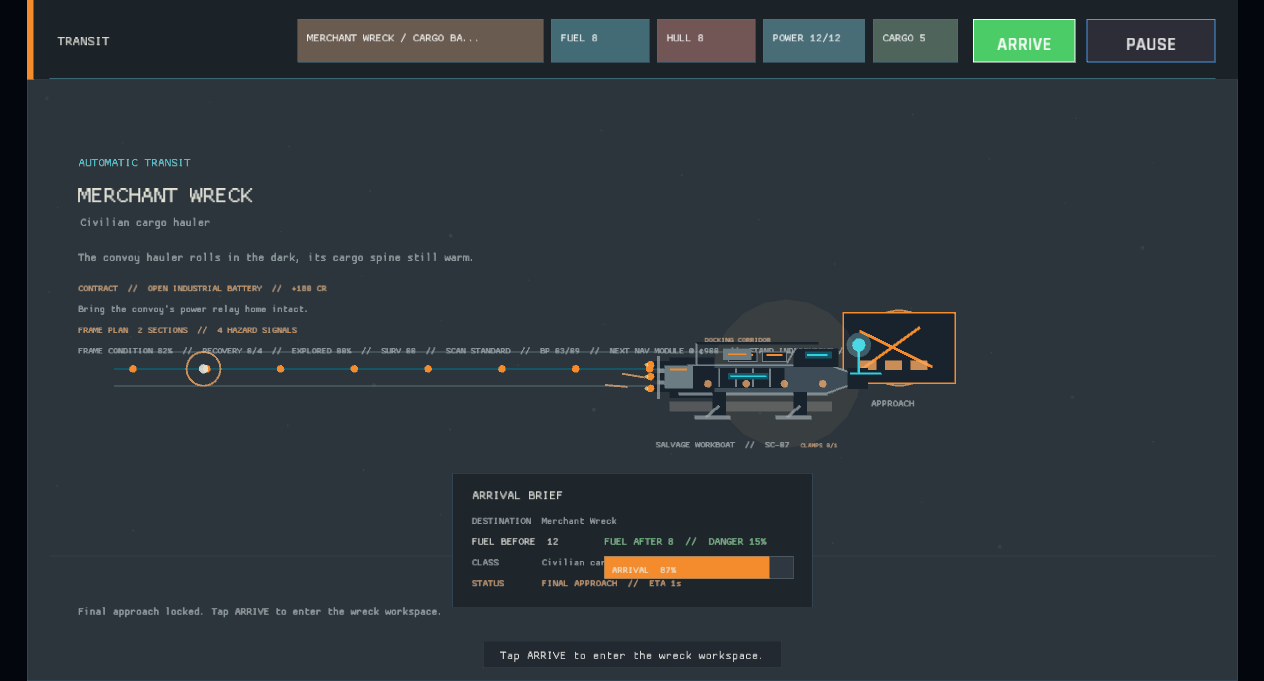
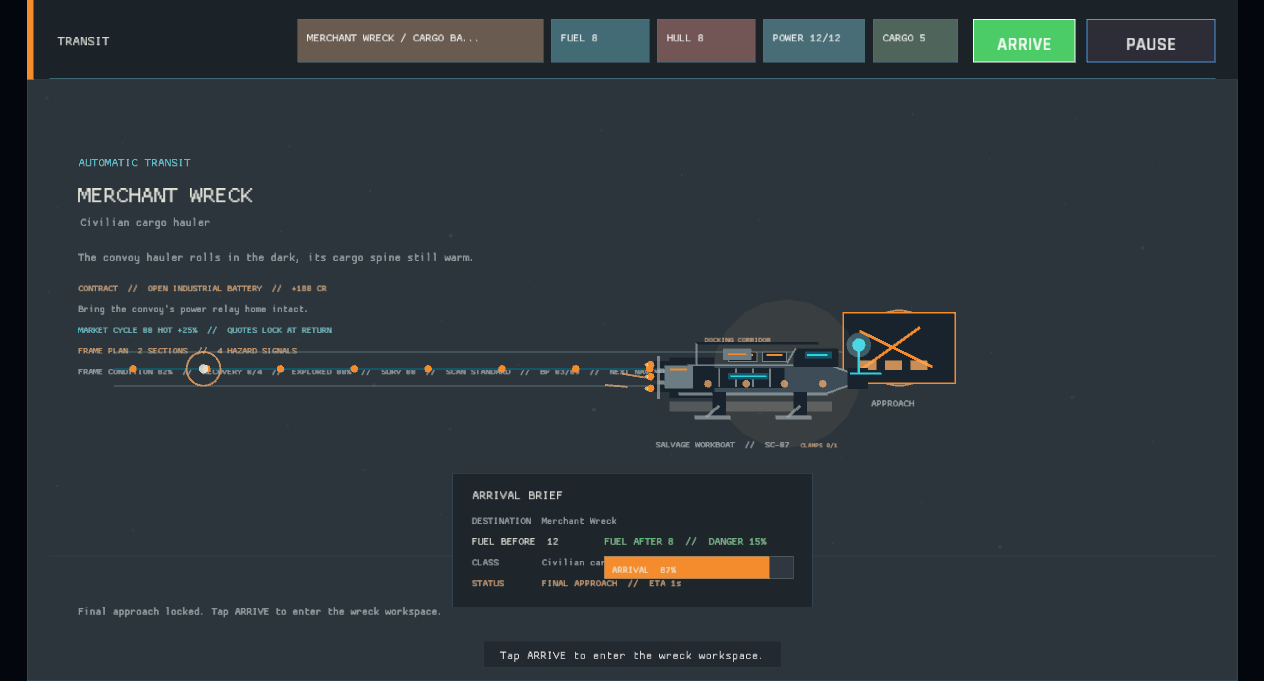
The arrival brief keeps the buyers in the flight plan (transit market readout)
Transit now carries the selected wreck's strongest demand window and the quote-lock rule into the arrival brief, keeping the economic choice visible while the ship crosses the route. Travel label coverage, visual capture, and the full publish validate the new readout.

Changed region(s): [[0.0617, 0.4626, 0.2777, 0.5551], [0.3085, 0.4934, 0.4011, 0.5551], [0.432, 0.4934, 0.5554, 0.5551]]

diff --git a/src/ui/travel.rs b/src/ui/travel.rs
@@ -102,13 +102,20 @@ pub fn draw_travel(ctx: &UiContext<'_>, _actions: &mut Vec<UiAction>) {
         );
     }
     draw_text(
+        travel_market_label(site, ctx.session, ctx.data),
+        54.0,
+        352.0,
+        12.0,
+        visual_theme::cyan(),
+    );
+    draw_text(
         format!(
             "FRAME PLAN  {} SECTIONS  //  {} HAZARD SIGNALS",
             site.sections.len(),
             site_hazard_count(site)
         ),
         54.0,
-        352.0,
+        374.0,
         12.0,
         visual_theme::site_accent(&site.visual_theme),
     );
@@ -135,7 +142,7 @@ pub fn draw_travel(ctx: &UiContext<'_>, _actions: &mut Vec<UiAction>) {
             standing_progress
         ),
         54.0,
-        374.0,
+        396.0,
         12.0,
         if recovery.recovered_targets > 0 {
             visual_theme::amber()
@@ -311,6 +318,27 @@ fn travel_standing_label(session: &GameSession) -> String {
                 threshold
             )
         },
+    )
+}
+
+fn travel_market_label(
+    site: &crate::data::SiteData,
+    session: &GameSession,
+    data: &GameData,
+) -> String {
+    let Some(quote) = site
+        .candidate_salvage
+        .iter()
+        .filter_map(|object_id| session.market_quote(object_id, data))
+        .max_by_key(|quote| (quote.signed_multiplier(), quote.sale_value))
+    else {
+        return "MARKET UNKNOWN".to_owned();
+    };
+    format!(
+        "MARKET {} {} {:+}%  //  QUOTES LOCK AT RETURN",
+        session.market_cycle_label(),
+        quote.band.label(),
+        quote.signed_multiplier()
     )
 }
 

diff --git a/src/ui/travel/tests.rs b/src/ui/travel/tests.rs
@@ -81,6 +81,17 @@ fn transit_brief_names_contract_standing_progress() {
 }
 
 #[test]
+fn arrival_brief_carries_the_current_market_window() {
+    let data = crate::data::GameData::load().unwrap();
+    let session = GameSession::new(&data);
+    let site = data.sites.get("merchant_wreck").unwrap();
+    let label = travel_market_label(site, &session, &data);
+
+    assert!(label.starts_with("MARKET CYCLE 00 "));
+    assert!(label.contains("QUOTES LOCK AT RETURN"));
+}
+
+#[test]
 fn travel_instructions_name_the_visible_next_control() {
     assert!(travel_instruction(TravelPhase::Cruise).contains("ARRIVE"));
     assert!(travel_instruction(TravelPhase::Docked).contains("CONTINUE"));
